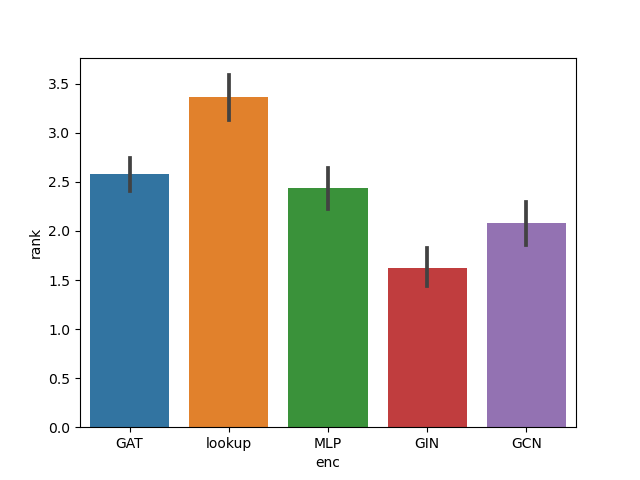
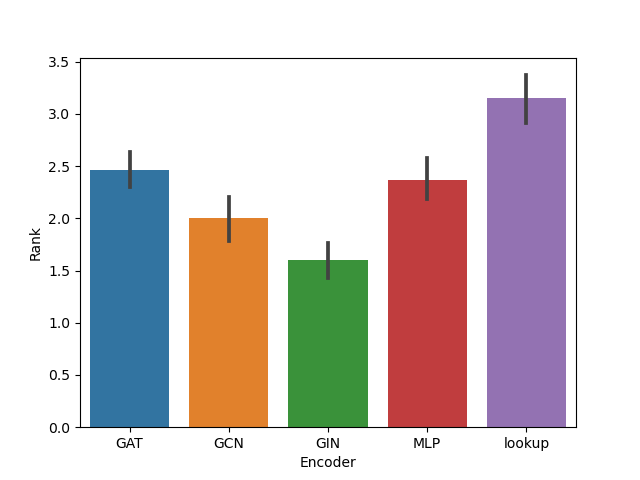
displot color

diff --git a/exps/src/analyse_data.py b/exps/src/analyse_data.py
@@ -10,6 +10,7 @@ decoders = ['inner', 'bilinear']
 estimators = ["jsd", "nce"]
 readouts = ["mean", "sum"]
 samplers = ["dgi", "node-neighbor-random", "node-rand_walk-random", "gca", "mvgrl", "aug"]
+encoderOrder = ["GCN", "lookup", "MLP", "GAT", "GIN",]
 encName = {
     "gcn": "GCN",
     "none": "lookup",
@@ -94,7 +95,7 @@ def get_enc_csv_data(sh_path: str, df: pd.DataFrame):
                 s = getDataFrame(i, dec, est, readout, hidden, sampler, dataset, dim)
 
                 if len(s) != 0 and s.iloc[0, 8] == "finished":
-                    result_1 = float(s.iloc[0, 9])
+                    result_1 = int(float(s.iloc[0, 9]) * 100)
                     result_dic[params][i] = [result_1]
                 else:
                     result_dic[params][i] = [0]
@@ -121,7 +122,7 @@ def get_dec_csv_data(sh_path: str, df: pd.DataFrame):
                 s = getDataFrame(enc, i, est, readout, hidden, sampler, dataset, dim)
 
                 if len(s) != 0 and s.iloc[0, 8] == "finished":
-                    result_1 = float(s.iloc[0, 9])
+                    result_1 = int(float(s.iloc[0, 9]) * 100)
                     result_dic[params][i] = [result_1]
                 else:
                     result_dic[params][i] = [0]
@@ -148,7 +149,7 @@ def get_readout_csv_data(sh_path: str, df: pd.DataFrame):
                 s = getDataFrame(enc, dec, est, i, hidden, sampler, dataset, dim)
 
                 if len(s) != 0 and s.iloc[0, 8] == "finished":
-                    result_1 = float(s.iloc[0, 9])
+                    result_1 = int(float(s.iloc[0, 9]) * 100)
                     result_dic[params][i] = [result_1]
                 else:
                     result_dic[params][i] = [0]
@@ -175,7 +176,7 @@ def get_estimator_csv_data(sh_path: str, df: pd.DataFrame):
                 s = getDataFrame(enc, dec, i, readout, hidden, sampler, dataset, dim)
 
                 if len(s) != 0 and s.iloc[0, 8] == "finished":
-                    result_1 = float(s.iloc[0, 9])
+                    result_1 = int(float(s.iloc[0, 9]) * 100)
                     result_dic[params][i] = [result_1]
                 else:
                     result_dic[params][i] = [0]
@@ -202,7 +203,7 @@ def get_sampler_csv_data(sh_path: str, df: pd.DataFrame):
                 s = getDataFrame(enc, dec, est, readout, hidden, i, dataset, dim)
 
                 if len(s) != 0 and s.iloc[0, 8] == "finished":
-                    result_1 = float(s.iloc[0, 9])
+                    result_1 = int(float(s.iloc[0, 9]) * 100)
                     result_dic[params][i] = [result_1]
                 else:
                     result_dic[params][i] = [0]
@@ -210,7 +211,7 @@ def get_sampler_csv_data(sh_path: str, df: pd.DataFrame):
 
 
 def plotEncRank(data, num, expName):
-    my_data = {"enc": [], "rank": []}
+    my_data = {"Encoder": [], "Rank": []}
     sort = {}
     rank = {}
     for i in encoders:
@@ -227,25 +228,29 @@ def plotEncRank(data, num, expName):
                 current_result = i[1]
                 current_comp += 1
                 sort[i[0]][current_comp] += 1
-            my_data["enc"].append(encName[i[0]])
-            my_data["rank"].append(current_comp)
+            my_data["Encoder"].append(encName[i[0]])
+            my_data["Rank"].append(current_comp)
     df_0 = pd.DataFrame(my_data)
+    df_0 = df_0.sort_values(by=["Encoder", "Rank"], ascending=[True,True])
     plt.figure(num + 10)
     # sns.violinplot(x="enc", y='rank', data=df_0, linewidth=2, width=0.8, palette='muted', order=encoders)
-    sns.barplot(data=df_0, x="enc", y="rank")
+    sns.barplot(data=df_0, x="Encoder", y="Rank")
     plt.savefig("../graph/" + expName + "_bar.png")
     plt.close()
 
     plt.figure(num)
     # sns.violinplot(x="enc", y='rank', data=df_0, linewidth=2, width=0.8, palette='muted', order=encoders)
-    sns.displot(data=df_0, x="enc", hue="rank", multiple="stack", hue_order=["1", "3", "2", "4", "5"])
+    sns.set_style("white")
+    current_palette = sns.color_palette()
+    sns.histplot(data=df_0, x="Encoder", hue="Rank", multiple="stack", shrink=.8,
+                 palette=sns.color_palette(palette=None, n_colors=5),)
     print(sort)
     plt.savefig("../graph/" + expName + "_dis.png")
     plt.close()
 
 
 def plotDecRank(data, num, expName):
-    my_data = {"dec": [], "rank": []}
+    my_data = {"Decoder": [], "Rank": []}
     sort = {}
     rank = {}
     for i in decoders:
@@ -262,17 +267,29 @@ def plotDecRank(data, num, expName):
                 current_result = i[1]
                 current_comp += 1
                 sort[i[0]][current_comp] += 1
-            my_data["dec"].append(i[0])
-            my_data["rank"].append(current_comp)
+            my_data["Decoder"].append(i[0])
+            my_data["Rank"].append(current_comp)
     df_0 = pd.DataFrame(my_data)
+    df_0 = df_0.sort_values("Decoder")
     plt.figure(num)
-    sns.displot(data=df_0, x="dec", hue="rank", multiple="stack", row_order=decoders)
+    plt.figure(figsize=(8, 6))
+    fig, axes = plt.subplots(1, 2)
+    sns.histplot(data=df_0, x="Decoder", hue="Rank", multiple="stack", shrink=.8,
+                 palette=sns.color_palette(palette=None, n_colors=2), ax=axes[0])
     print(sort)
+    """
     plt.savefig("../graph/" + expName + "_dis.png")
+
+    plt.figure(num + 10)
+    """
+    sns.barplot(data=df_0, x="Decoder", y="Rank", ax=axes[1])
+    plt.subplots_adjust(wspace=0.5)
+    plt.savefig("../graph/" + expName + "_bar.png")
+    plt.close()
 
 
 def plotReadoutRank(data, num, expName):
-    my_data = {"readout": [], "rank": []}
+    my_data = {"Readout": [], "Rank": []}
     sort = {}
     rank = {}
     for i in readouts:
@@ -289,17 +306,29 @@ def plotReadoutRank(data, num, expName):
                 current_result = i[1]
                 current_comp += 1
                 sort[i[0]][current_comp] += 1
-            my_data["readout"].append(i[0])
-            my_data["rank"].append(current_comp)
+            my_data["Readout"].append(i[0])
+            my_data["Rank"].append(current_comp)
     df_0 = pd.DataFrame(my_data)
+    df_0 = df_0.sort_values("Readout")
     plt.figure(num)
-    sns.displot(data=df_0, x="readout", hue="rank", multiple="stack", row_order=readouts)
+    plt.figure(figsize=(8, 6))
+    fig, axes = plt.subplots(1, 2)
+    sns.histplot(data=df_0, x="Readout", hue="Rank", multiple="stack", shrink=.8,
+                 palette=sns.color_palette(palette=None, n_colors=2), ax=axes[0])
     print(sort)
+    """
     plt.savefig("../graph/" + expName + "_dis.png")
+
+    plt.figure(num + 10)
+    """
+    sns.barplot(data=df_0, x="Readout", y="Rank", ax=axes[1])
+    plt.subplots_adjust(wspace=0.5)
+    plt.savefig("../graph/" + expName + "_bar.png")
+    plt.close()
 
 
 def plotEstimatorRank(data, num, expName):
-    my_data = {"estimator": [], "rank": []}
+    my_data = {"Estimator": [], "Rank": []}
     sort = {}
     rank = {}
     for i in estimators:
@@ -317,17 +346,29 @@ def plotEstimatorRank(data, num, expName):
                 current_result = i[1]
                 current_comp += 1
                 sort[i[0]][current_comp] += 1
-            my_data["estimator"].append(estName[i[0]])
-            my_data["rank"].append(current_comp)
+            my_data["Estimator"].append(estName[i[0]])
+            my_data["Rank"].append(current_comp)
     df_0 = pd.DataFrame(my_data)
+    df_0 = df_0.sort_values("Estimator")
     plt.figure(num)
-    sns.displot(data=df_0, x="estimator", hue="rank", multiple="stack")
+    plt.figure(figsize=(8, 6))
+    fig, axes = plt.subplots(1, 2)
+    sns.histplot(data=df_0, x="Estimator", hue="Rank", multiple="stack", shrink=.8,
+                 palette=sns.color_palette(palette=None, n_colors=2), ax=axes[0])
     print(sort)
+    """
     plt.savefig("../graph/" + expName + "_dis.png")
+
+    plt.figure(num + 10)
+    """
+    sns.barplot(data=df_0, x="Estimator", y="Rank", ax=axes[1])
+    plt.subplots_adjust(wspace=0.5)
+    plt.savefig("../graph/" + expName + "_bar.png")
+    plt.close()
 
 
 def plotSamplerRank(data, num, expName):
-    my_data = {"sampler": [], "rank": []}
+    my_data = {"Sampler": [], "Rank": []}
     sort = {}
     rank = {}
     for i in samplers:
@@ -345,14 +386,25 @@ def plotSamplerRank(data, num, expName):
                 current_result = i[1]
                 current_comp += 1
                 sort[i[0]][current_comp] += 1
-            my_data["sampler"].append(samplerName[i[0]])
-            my_data["rank"].append(current_comp)
+            my_data["Sampler"].append(samplerName[i[0]])
+            my_data["Rank"].append(current_comp)
     df_0 = pd.DataFrame(my_data)
+    df_0 = df_0.sort_values("Sampler")
+    plt.figure(num + 10)
+    # sns.violinplot(x="enc", y='rank', data=df_0, linewidth=2, width=0.8, palette='muted', order=encoders)
+    sns.barplot(data=df_0, x="Sampler", y="Rank")
+    plt.savefig("../graph/" + expName + "_bar.png")
+    plt.close()
+
     plt.figure(num)
-    plt.figure(figsize=(12, 6))
-    ax = sns.displot(data=df_0, x="sampler", hue="rank", multiple="stack")
+    # sns.violinplot(x="enc", y='rank', data=df_0, linewidth=2, width=0.8, palette='muted', order=encoders)
+    sns.set_style("white")
+    current_palette = sns.color_palette()
+    sns.histplot(data=df_0, x="Sampler", hue="Rank", multiple="stack", shrink=.8,
+                 palette=sns.color_palette("ch:s=.25,rot=-.25", as_cmap=True))
     print(sort)
     plt.savefig("../graph/" + expName + "_dis.png")
+    plt.close()
 
 
 # 针对node_enc的版本
